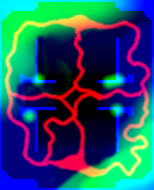
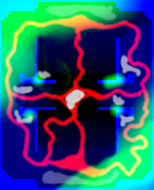
Adds zlotti spawning.

diff --git a/game/src/map_loader.c b/game/src/map_loader.c
@@ -1,4 +1,6 @@
 #include "map_loader.h"
+#include "z.h"
+
 #include <d3d9.h>
 #include <stdio.h>
 
@@ -7,6 +9,7 @@ typedef struct
 	int celltype;
 	float vegetation;
 	float elevation;
+    float zettiness;
 } maploader_cell;
 
 struct maploader_t
@@ -127,6 +130,7 @@ void maploader_load(char const * fileName)
 			((maploader.cells)[maploader.w * y + x]).celltype = 0;
 			((maploader.cells)[maploader.w * y + x]).vegetation = col.green / 255.0;
             ((maploader.cells)[maploader.w * y + x]).elevation = col.blue * 3;
+            ((maploader.cells)[maploader.w * y + x]).zettiness = 1.0 - alpha / 100.0;
 		}
 	}
 
@@ -217,38 +221,52 @@ void maploader_load(char const * fileName)
             int type = maploader_tile_type(x, y);
             if(type != MAPLOADER_TILE_DEFAULT)
                 continue;
-            if(random(100) < 50)
-                continue;
-            float v = maploader_tile_vegetation(x, y);
-            if(v < 0.2)
-                continue;
-            if(random(100) < pow(v, 6.0) * 100) {
-                char const * boom = "tree01.mdl";
-                var r = random(1);
-                if(r > 0.66)
-                    boom = "tree02.mdl";
-                else if(r > 0.33)
-                    boom = "tree03.mdl";
+            VECTOR pos;
+            maploader_pos_to_vec(pos, x, y);
 
-                you = ent_create(boom, nullvector, NULL);
-                maploader_pos_to_vec(you->x, x, y);
-                you->pan = random(360);
-                you->tilt = random(30) - 15;
-                // you->emask &= ~DYNAMIC;
+            if(random(100) > 50)
+            {
+                float z = maploader_tile_zettiness(x, y);
+
+                if(random(100) < 100 * z)
+                {
+                   z_spawn(pos);
+                }
+            }
+
+            if(random(100) > 50)
+            {
+                float v = maploader_tile_vegetation(x, y);
+                if(v > 0.2)
+                {
+                    if(random(100) < pow(v, 6.0) * 100) {
+                        char const * boom = "tree01.mdl";
+                        var r = random(1);
+                        if(r > 0.66)
+                            boom = "tree02.mdl";
+                        else if(r > 0.33)
+                            boom = "tree03.mdl";
+
+                        you = ent_create(boom, pos, NULL);
+                        you->pan = random(360);
+                        you->tilt = random(30) - 15;
+                        // you->emask &= ~DYNAMIC;
+                    }
+                }
             }
         }
     }
     maploader.terrain.clipfactor = 2;
 
-    int i; for(i = -15; i <= 15; i++)
-    {
-        you = ent_create(
-            "StrasseGerade.mdl",
-            vector(580 * i, 0, 0),
-            NULL
-        );
-        you.z = maploader_get_height(you.x);
-    }
+//    int i; for(i = -15; i <= 15; i++)
+//    {
+//        you = ent_create(
+//            "StrasseGerade.mdl",
+//            vector(580 * i, 0, 0),
+//            NULL
+//        );
+//        you.z = maploader_get_height(you.x);
+//    }
 
 
 
@@ -289,6 +307,11 @@ float maploader_tile_height(int x, int y)
 	return ((maploader.cells)[maploader.w * y + x]).elevation;
 }
 
+float maploader_tile_zettiness(int x, int y)
+{
+    return ((maploader.cells)[maploader.w * y + x]).zettiness;
+}
+
 int   maploader_get_type(VECTOR * v)
 {
 	int x, y;
@@ -309,6 +332,7 @@ float maploader_get_height(VECTOR * v)
 	maploader_pos_for_vec(v, &x, &y);
 	return maploader_tile_height(x, y);
 }
+
 
 var maploader_dist2d(VECTOR * _a, VECTOR * _b)
 {

diff --git a/game/src/map_loader.h b/game/src/map_loader.h
@@ -25,6 +25,7 @@ int maploader_size_y(void);
 int   maploader_tile_type(int x, int y);
 float maploader_tile_vegetation(int x, int y);
 float maploader_tile_height(int x, int y);
+float maploader_tile_zettiness(int x, int y);
 
 int   maploader_get_type(VECTOR * v);
 float maploader_get_vegetation(VECTOR * v);
